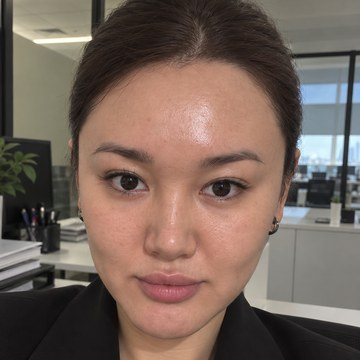
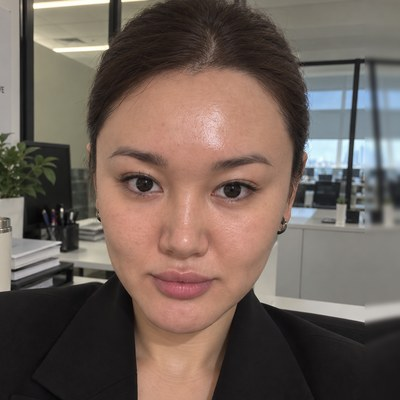
Страница: фото чуть дальше

diff --git a/start.html b/start.html
@@ -224,7 +224,7 @@
   // Контакт для заявок, фото и отзыв: заполнить здесь
   const CONTACT = 'https://t.me/arailym_amerzhan';
   const CTA_TEXT = 'Здравствуйте! Хочу подключить приложение EsepDos.';
-  const PHOTO = 'arailym.jpg?v=2';       // фото рядом с этой страницей
+  const PHOTO = 'arailym.jpg?v=3';       // фото рядом с этой страницей
   const REVIEW = { text: '', who: '' };   // отзыв клиента (только с его согласия)
 
   document.querySelectorAll('[data-cta]').forEach(a => {
